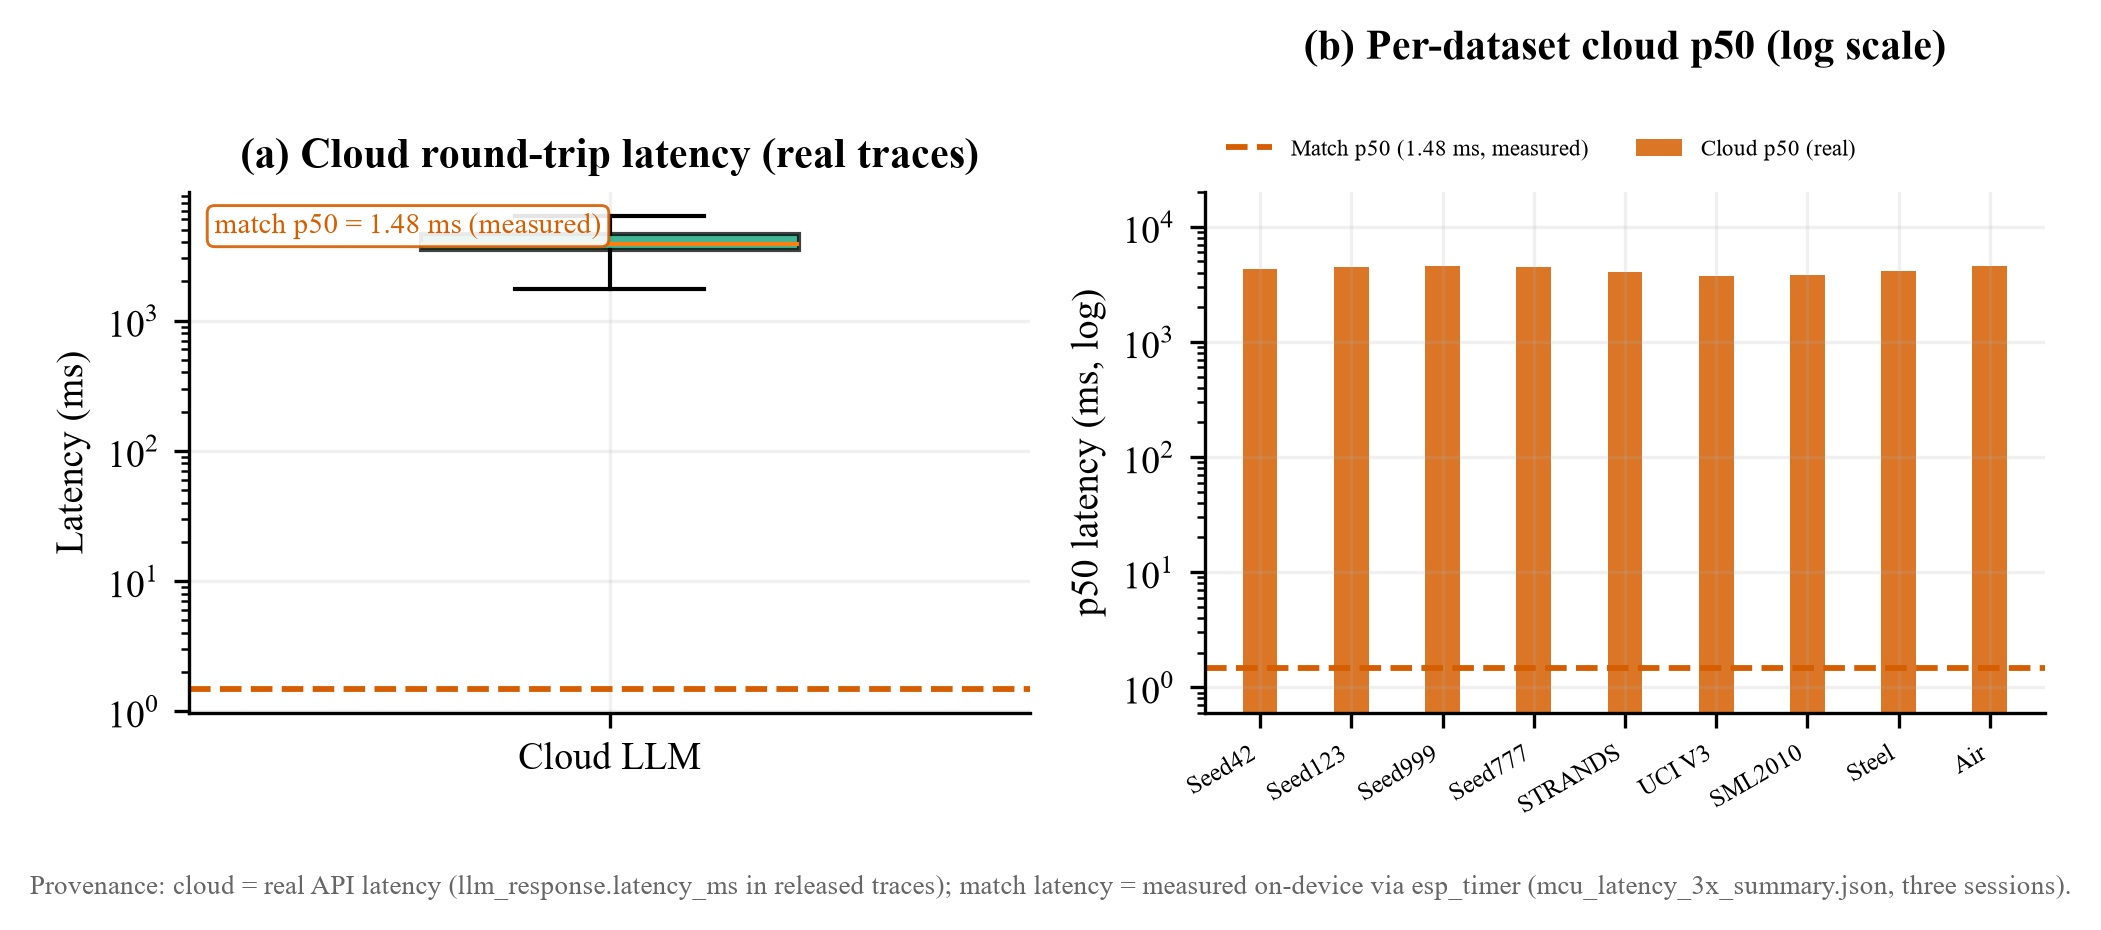
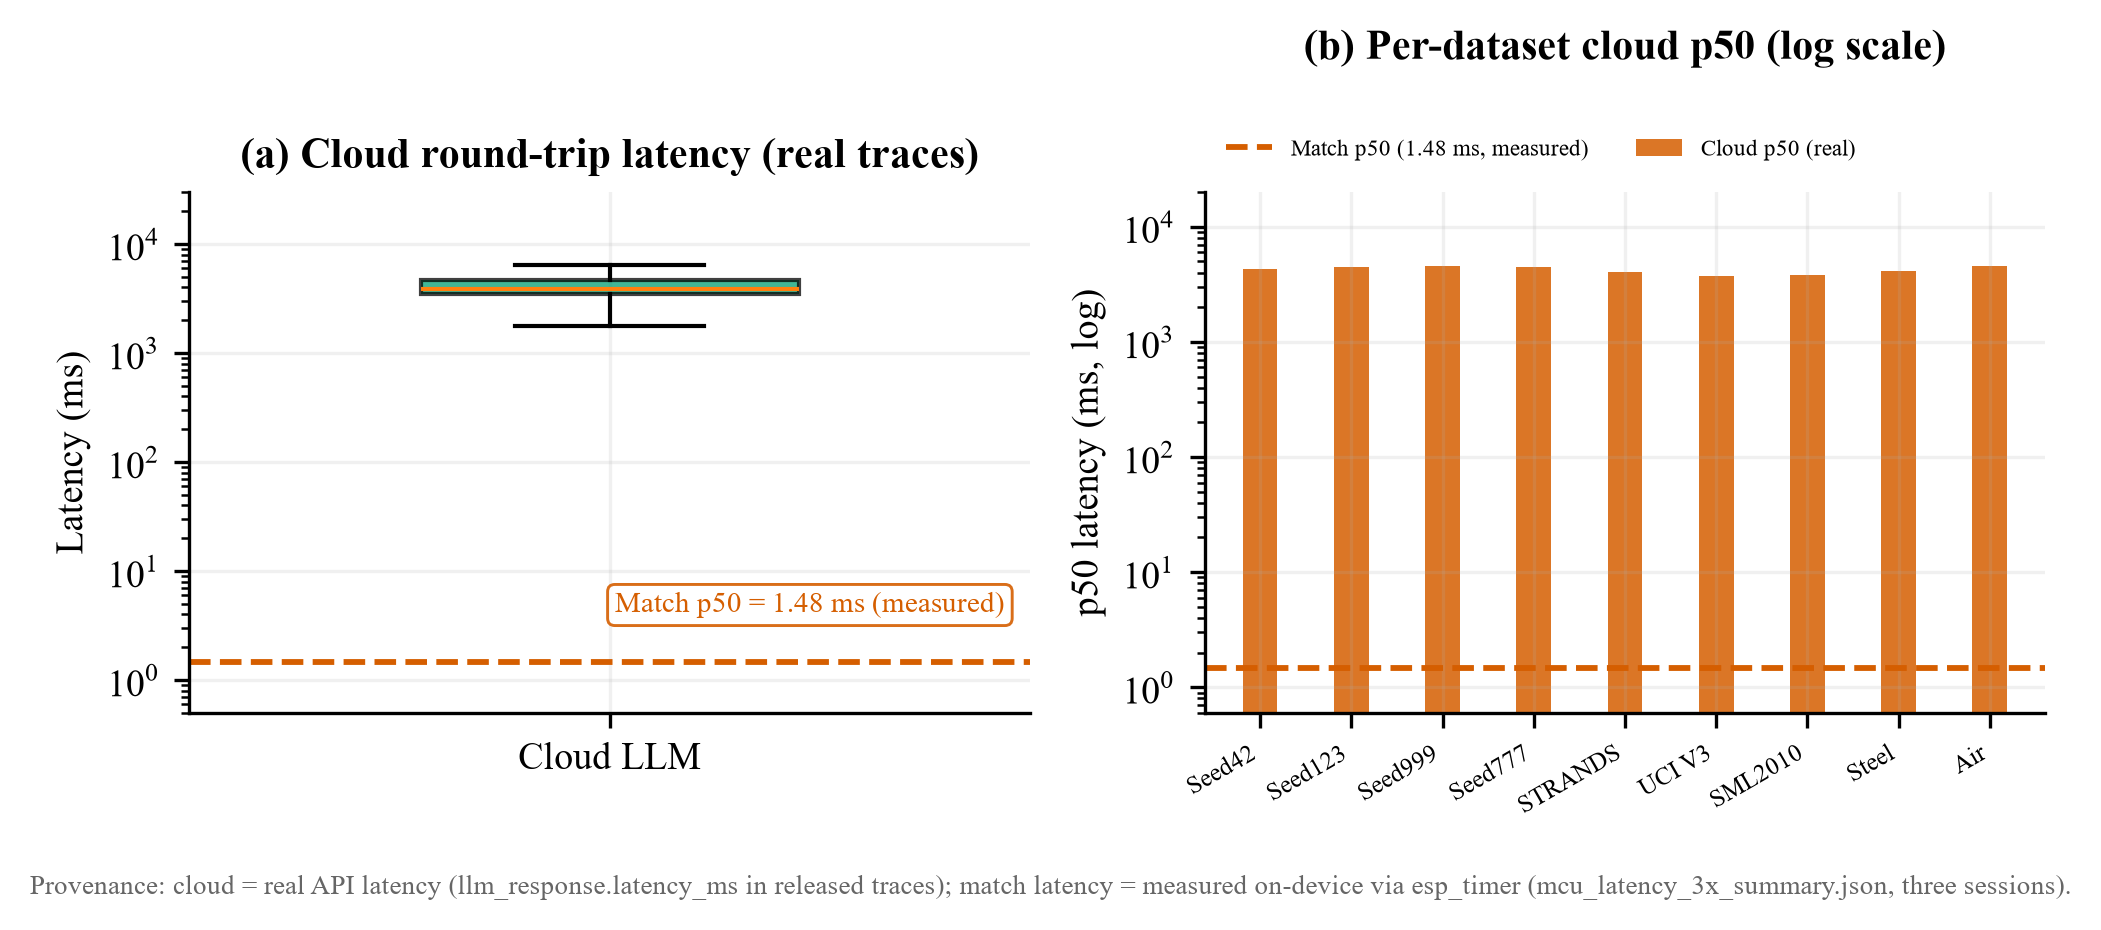
fig8: make match-p50 reference line visible (extend ylim), place label beside the line; rebuild PDFs

diff --git a/figures/gen_all.py b/figures/gen_all.py
@@ -341,6 +341,7 @@ def fig_latency():
         patch.set_alpha(0.75)
     ax.set_ylabel("Latency (ms)")
     ax.set_yscale("log")
+    ax.set_ylim(0.5, 30000)
     ax.set_title("(a) Cloud round-trip latency (real traces)")
     # v10.5g: on-device measured match latency (rule_engine_match incl.
     # cJSON walk; replaces the simulated local-execution latency)
@@ -352,9 +353,10 @@ def fig_latency():
         p50_us = [ (mcu.get("match_latency_us") or {}).get("p50_us") ]
     if p50_us[0]:
         ax.axhline(p50_us[0] / 1000.0, color=OURS, ls="--", lw=1.4)
-        ax.text(0.03, 0.96, f"match p50 = {p50_us[0]/1000:.2f} ms (measured)",
-                ha="left", va="top", fontsize=7, color=OURS,
-                transform=ax.transAxes,
+        ax.text(0.97, p50_us[0] / 1000.0 * 2.5,
+                f"Match p50 = {p50_us[0]/1000:.2f} ms (measured)",
+                ha="right", va="bottom", fontsize=7, color=OURS,
+                transform=ax.get_yaxis_transform(),
                 bbox=dict(boxstyle="round,pad=0.25", fc="white",
                           ec=OURS, lw=0.7, alpha=0.9))
     ax = axes[1]
